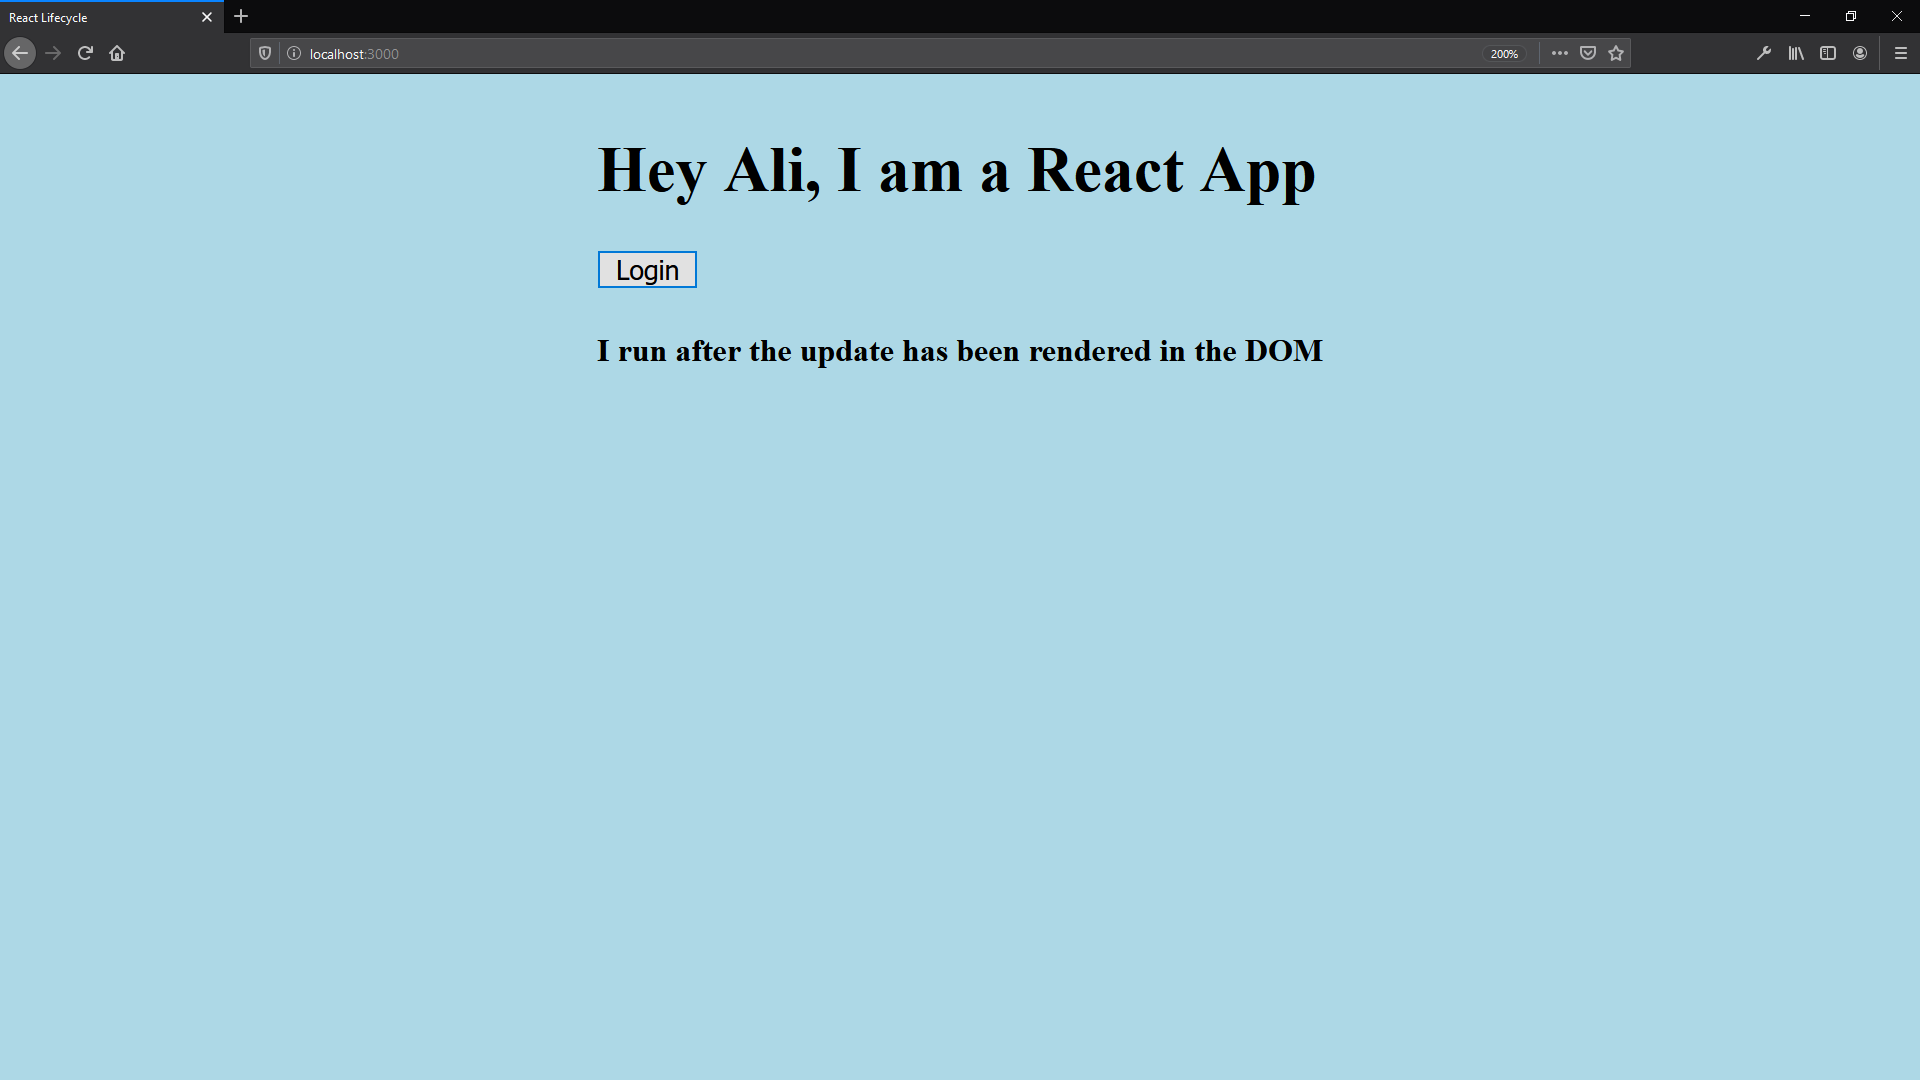
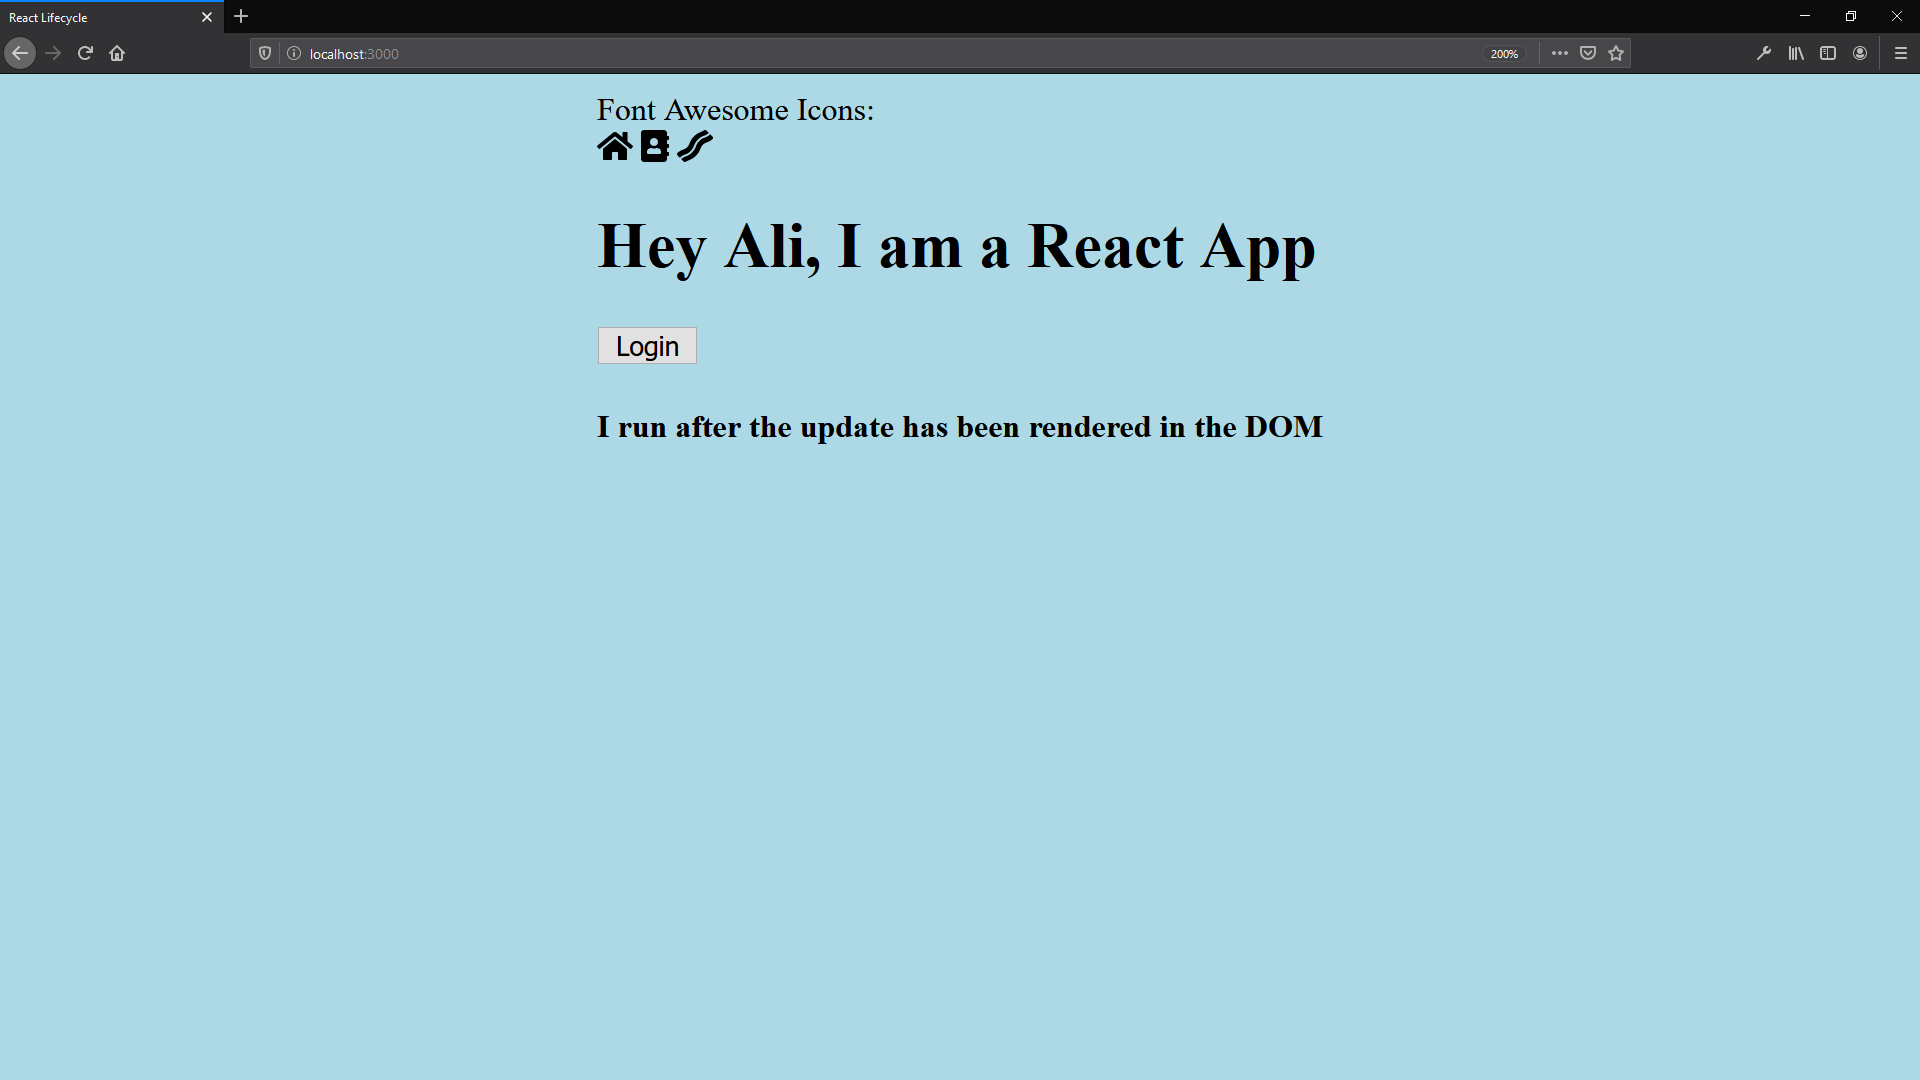
React

diff --git a/200622/src/App.js b/200622/src/App.js
@@ -1,4 +1,8 @@
 import React from "react";
+//import { render } from "react-dom";
+// get our fontawesome imports
+import { faHome, faAddressBook, faBacon } from "@fortawesome/free-solid-svg-icons";
+import { FontAwesomeIcon } from "@fortawesome/react-fontawesome";
 
 export default class App extends React.Component {
     constructor(props) {
@@ -25,6 +29,15 @@ export default class App extends React.Component {
     render() {
         return (
             <React.Fragment>
+                <div>
+                    Font Awesome Icons:
+                    <br></br>
+                    <FontAwesomeIcon icon={faHome} />
+                    <span> </span>
+                    <FontAwesomeIcon icon={faAddressBook} />
+                    <span> </span>
+                    <FontAwesomeIcon icon={faBacon} />
+                </div>
                 <h1>Hey {this.state.userName}, I am a React App</h1>
                 <button onClick={this.login}>Login</button>
                 <h4>{this.text}</h4>
@@ -32,3 +45,15 @@ export default class App extends React.Component {
         );
     }
 }
+
+// // create our App
+// const App = () => (
+//     <div>
+//         <FontAwesomeIcon icon={faHome} />
+//     </div>
+// );
+
+// // render to #root
+// render(<App />, document.getElementById("root"));
+
+// export default App;

diff --git a/200622/README.md b/200622/README.md
@@ -24,7 +24,17 @@ https://levelup.gitconnected.com/componentdidmakesense-react-lifecycle-explanati
 
 ## How To Use [Font Awesome 5](https://fontawesome.com/) with React
 
-https://www.digitalocean.com/community/tutorials/how-to-use-font-awesome-5-with-react
+1. https://github.com/FortAwesome/react-fontawesome
+
+```
+$ npm i --save @fortawesome/fontawesome-svg-core
+$ npm i --save @fortawesome/free-solid-svg-icons
+$ npm i --save @fortawesome/react-fontawesome
+```
+
+2. https://www.digitalocean.com/community/tutorials/how-to-use-font-awesome-5-with-react
+
+3. [Font Awesome icons page](https://fontawesome.com/icons?d=gallery)
 
 # Screenshot
 

diff --git a/README.md b/README.md
@@ -311,7 +311,7 @@ Folder **[200618](https://github.com/marcelosperalta/dci/tree/master/200618)** (
 * React (State, exercise "Morse translator")
 
 Folder **[200622](https://github.com/marcelosperalta/dci/tree/master/200622)** (Class 22.06.2020)
-* React (Lifecycle)
+* React (Lifecycle, Font Awesome)
 
 <div align="center">
     <a href="https://marcelosperalta.github.io/dci/">
